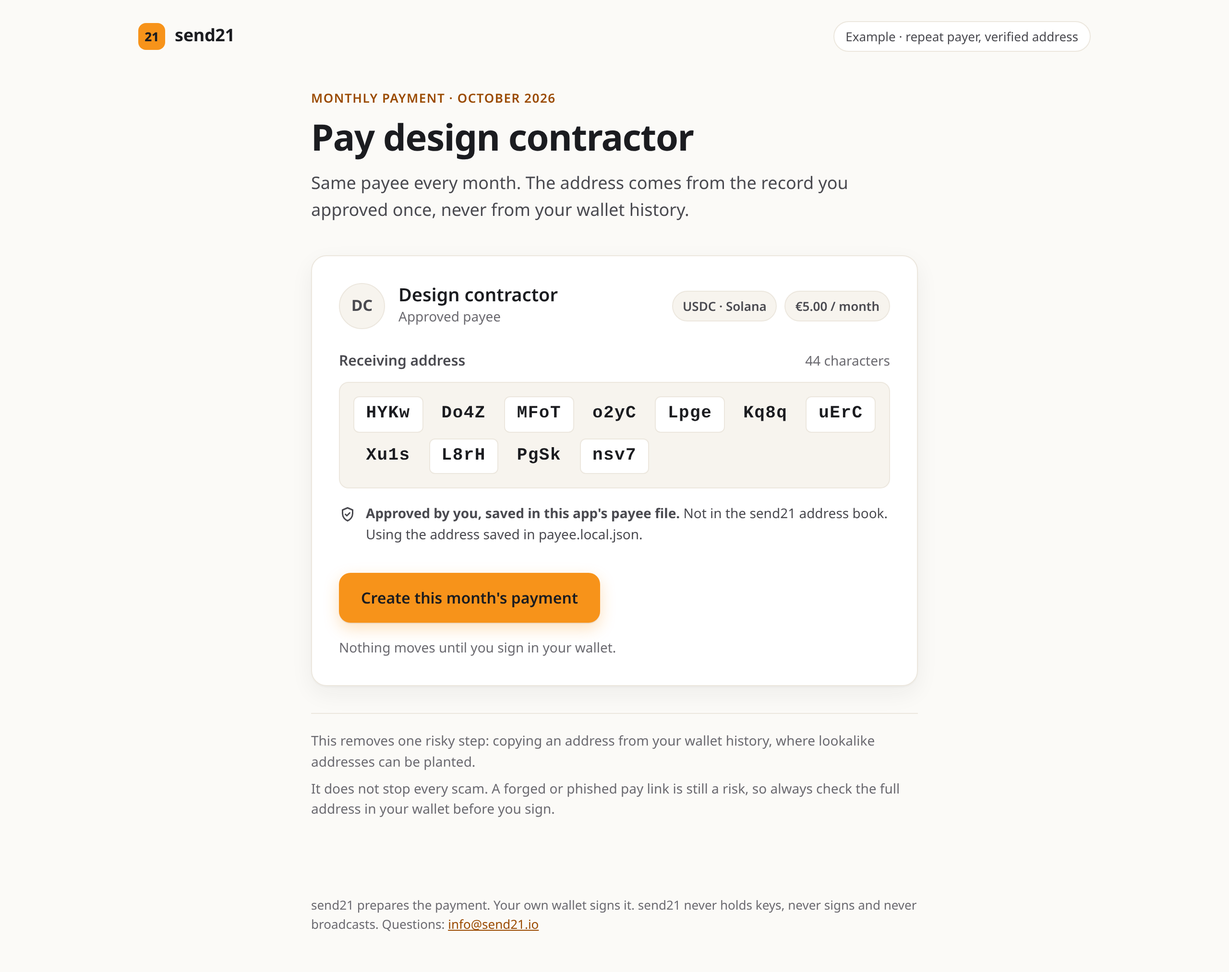
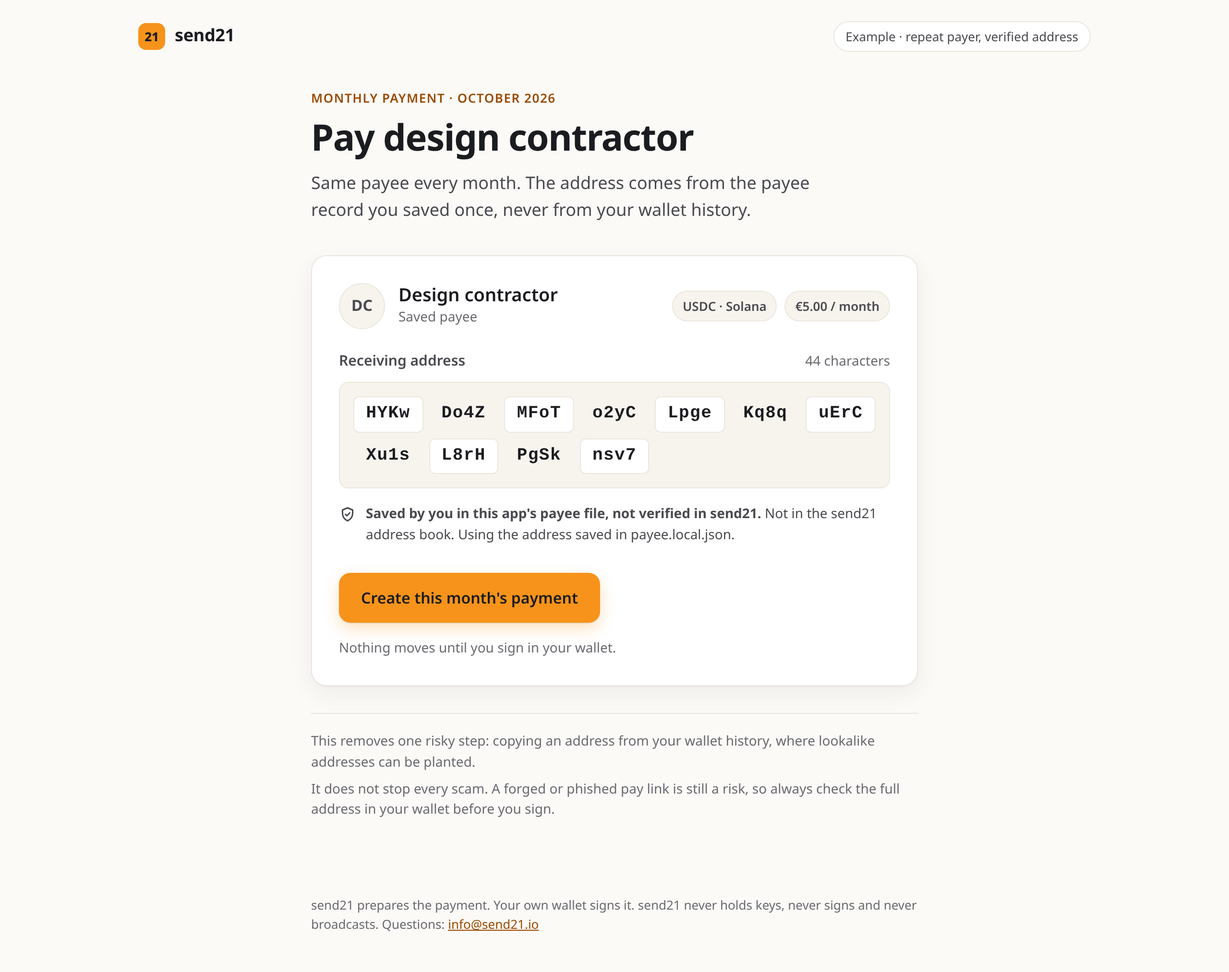
examples: say "approved" only for a verified send21 address book entry
When the payee or helper address comes from the example's own config
file and not from an owner-verified send21 address book entry, the UI
and CLI now say "saved" ("Address matches your saved payee",
"Matches the helper address you saved"). "Approved" / "pre-approved"
wording stays for verified entries. READMEs updated to match.

repeat-payer-verified-address: a fiat price is locked for 15 minutes;
when this month's draft is still within its life but the lock ran out,
re-quote it (POST /drafts/{id}/requote) instead of failing. The UI shows
the price lock time. Test added.

diff --git a/examples/repeat-payer-verified-address/public/app.js b/examples/repeat-payer-verified-address/public/app.js
@@ -24,7 +24,7 @@ function focusHeading() { app.querySelector("h1")?.setAttribute("tabindex", "-1"
 
 function stepper(state) {
   const steps = [
-    ["created", "Draft created", "From your approved payee"],
+    ["created", "Draft created", `From your ${kind()}`],
     ["waiting", "Waiting for your signature", "In your own wallet"],
     ["paid", "Paid", "Confirmed on-chain"],
   ];
@@ -36,6 +36,9 @@ function stepper(state) {
 }
 
 let payee, approval;
+// Honest wording: "approved" only for an owner-verified send21 address book entry.
+const kind = () => (approval?.verified ? "approved payee" : "saved payee");
+const Kind = () => (approval?.verified ? "Approved payee" : "Saved payee");
 
 async function start() {
   try {
@@ -47,7 +50,7 @@ async function start() {
 function sourceLine() {
   return approval.verified
     ? `${ICON.shield}<span><b>Verified in your send21 address book</b> on ${new Date(approval.verifiedAt).toLocaleDateString("en", { dateStyle: "medium" })}. Every payment uses this record.</span>`
-    : `${ICON.shield}<span><b>Approved by you, saved in this app's payee file.</b> ${esc(approval.note)}</span>`;
+    : `${ICON.shield}<span><b>Saved by you in this app's payee file, not verified in send21.</b> ${esc(approval.note)}</span>`;
 }
 
 function renderPayee() {
@@ -56,11 +59,11 @@ function renderPayee() {
     <section class="fade-in">
       <p class="eyebrow">Monthly payment · ${esc(month)}</p>
       <h1>Pay ${esc(payee.label.toLowerCase())}</h1>
-      <p class="lede">Same payee every month. The address comes from the record you approved once, never from your wallet history.</p>
+      <p class="lede">Same payee every month. ${approval.verified ? "The address comes from the payee you approved in your send21 address book" : "The address comes from the payee record you saved once"}, never from your wallet history.</p>
       <article class="card" aria-labelledby="payee-name">
         <div class="card-head">
           <div class="avatar" aria-hidden="true">${esc(initials(payee.label))}</div>
-          <div><div class="who" id="payee-name">${esc(payee.label)}</div><div class="meta">Approved payee</div></div>
+          <div><div class="who" id="payee-name">${esc(payee.label)}</div><div class="meta">${Kind()}</div></div>
           <div class="chips"><span class="chip">${esc(asset(payee))}</span><span class="chip">${esc(money(payee.fiatAmount, payee.fiatCurrency))} / month</span></div>
         </div>
         <div class="addr-label"><h2 style="margin:0">Receiving address</h2><span>${payee.address.length} characters</span></div>
@@ -95,8 +98,8 @@ function renderDraft(r, state, paid) {
   const amountAsset = (d.amountBaseUnits / 1e6).toFixed(2);
   const where = c.checks.map((x) => x.where === "draft.receiverAddress" ? "the draft" : x.where.startsWith("tx-template") ? "the wallet instructions" : "the QR link").join(", ").replace(/, ([^,]*)$/, " and $1");
   const banner = c.allMatch
-    ? `<div class="banner ok" role="status"><span class="icon">${ICON.check}</span><div><strong>Address matches your approved payee</strong><p>All ${payee.address.length} characters match in ${where}.</p></div></div>`
-    : `<div class="banner bad" role="alert"><span class="icon">${ICON.stop}</span><div><strong>Stop. The address does not match your approved payee.</strong><p>Do not pay this draft. Check your payee record first.</p></div></div>`;
+    ? `<div class="banner ok" role="status"><span class="icon">${ICON.check}</span><div><strong>Address matches your ${kind()}</strong><p>All ${payee.address.length} characters match in ${where}.</p></div></div>`
+    : `<div class="banner bad" role="alert"><span class="icon">${ICON.stop}</span><div><strong>Stop. The address does not match your ${kind()}.</strong><p>Do not pay this draft. Check your payee record first.</p></div></div>`;
   const heading = state === "paid" ? "Paid" : "Waiting for your signature";
   const lede = state === "paid"
     ? `${esc(payee.label)} has been paid for this month.`
@@ -120,11 +123,11 @@ function renderDraft(r, state, paid) {
               <p class="fine" style="margin-top:12px">Or scan the QR code with your phone wallet.</p>
             </div>
           </div>`}
-        <div class="addr-label"><h2 style="margin:0">Paying to</h2><span>${c.allMatch ? "Matches approved payee" : "Does not match"}</span></div>
+        <div class="addr-label"><h2 style="margin:0">Paying to</h2><span>${c.allMatch ? `Matches ${kind()}` : "Does not match"}</span></div>
         ${addrGrid(d.receiverAddress, "Receiving address in this draft")}
       </article>
       ${state !== "paid" ? `<div class="note" style="margin-top:20px">${ICON.eye}<div>Your wallet shows the full address before you sign. Compare it with the one above, group by group. If anything differs, stop.</div></div>` : ""}
-      <dl class="rows" style="margin-top:24px"><div class="row"><dt>Draft</dt><dd class="mono">${esc(d.id)}</dd></div><div class="row"><dt>Expires</dt><dd>${esc(new Date(d.expiresAt).toLocaleString("en", { dateStyle: "medium", timeStyle: "short" }))}</dd></div></dl>
+      <dl class="rows" style="margin-top:24px"><div class="row"><dt>Draft</dt><dd class="mono">${esc(d.id)}</dd></div>${d.lockedUntil ? `<div class="row"><dt>Price locked until</dt><dd>${esc(new Date(d.lockedUntil).toLocaleTimeString("en", { timeStyle: "short" }))}</dd></div>` : ""}<div class="row"><dt>Expires</dt><dd>${esc(new Date(d.expiresAt).toLocaleString("en", { dateStyle: "medium", timeStyle: "short" }))}</dd></div></dl>
     </section>`;
   focusHeading();
 }

diff --git a/examples/agent-hires-local-helper/public/app.js b/examples/agent-hires-local-helper/public/app.js
@@ -27,6 +27,8 @@ function stepper(at) {
 }
 
 let v;
+// Honest wording: "pre-approved" only for an owner-verified send21 address book entry.
+const approved = () => Boolean(v?.helper?.approvedInSend21);
 async function start() {
   try { v = await api("/api/task"); render(); if (v.phase === "awaiting_signature") poll(); }
   catch (e) { app.innerHTML = `<h1>Something is not set up yet</h1><p class="error">${esc(e.message)}</p>`; }
@@ -52,9 +54,9 @@ function renderTask() {
           <div class="row"><dt>Helper</dt><dd>${esc(helper.label)}</dd></div>
           <div class="row"><dt>Agreed amount</dt><dd>${esc(money(task.fiatAmount, task.fiatCurrency))} · ${esc(helper.currency.toUpperCase())} on ${esc(helper.network)}</dd></div>
         </dl>
-        <div class="addr-label"><h2 style="margin:0">Helper's receiving address</h2><span>Pre-approved by you</span></div>
-        ${addrGrid(helper.chunks, "Helper's pre-approved receiving address")}
-        <p class="source">${ICON.shield}<span>Saved once from what your helper gave you (${esc(helper.source)}). Your agent cannot change it.</span></p>
+        <div class="addr-label"><h2 style="margin:0">Helper's receiving address</h2><span>${approved() ? "Pre-approved in send21" : "Saved by you"}</span></div>
+        ${addrGrid(helper.chunks, approved() ? "Helper's pre-approved receiving address" : "Helper's saved receiving address")}
+        <p class="source">${ICON.shield}<span>${approved() ? "Approved by you in your send21 address book. Your agent cannot change it." : `Saved once from what your helper gave you (${esc(helper.source)}), not in your send21 address book. Your agent cannot change it.`}</span></p>
         <div class="actions">
           <button class="btn btn-primary" id="done">Task done</button>
           <p class="fine">Your agent drafts the payment. Nothing moves until you sign.</p>
@@ -70,7 +72,7 @@ async function done(ev) {
     <section class="fade-in">
       <p class="eyebrow">Task done</p>
       <h1>Your agent is drafting the payment</h1>
-      <p class="lede">It asks send21 for a pay link to your helper's pre-approved address. It cannot sign or pay.</p>
+      <p class="lede">It asks send21 for a pay link to ${approved() ? "your helper's pre-approved address" : "the helper address you saved"}. It cannot sign or pay.</p>
       <div class="card"><div class="working"><span class="spinner" aria-hidden="true"></span><span>Calling the send21 MCP server…</span></div></div>
     </section>`;
   focusHeading();
@@ -105,7 +107,7 @@ function renderReview() {
       <h1>${isPaid ? "Paid" : "Review and sign"}</h1>
       <p class="lede">${isPaid ? `${esc(helper.label)} has been paid for the task.` : "Your agent drafted this payment. Check it, then open the pay link and sign in your own wallet."}</p>
       ${match
-        ? `<div class="banner ok" role="status"><span class="icon">${ICON.check}</span><div><strong>Pays your helper's pre-approved address</strong><p>All ${helper.address.length} characters match the address you saved.</p></div></div>`
+        ? `<div class="banner ok" role="status"><span class="icon">${ICON.check}</span><div><strong>${approved() ? "Pays your helper's pre-approved address" : "Matches the helper address you saved"}</strong><p>All ${helper.address.length} characters match ${approved() ? "the address you approved in send21" : "the address you saved"}.</p></div></div>`
         : `<div class="banner bad" role="alert"><span class="icon">${ICON.stop}</span><div><strong>Stop. This link does not pay your helper's address.</strong><p>Do not sign. Check the helper record first.</p></div></div>`}
       ${stepper(isPaid ? 3 : 1)}
       <article class="card">
@@ -114,7 +116,7 @@ function renderReview() {
           <div><div class="meta">Pay ${esc(helper.label.toLowerCase())}</div><div class="amount">${esc(money(pr.fiatAmount, pr.fiatCurrency))}<small>in ${esc(pr.option.currency.toUpperCase())} on ${esc(pr.option.network)} · ${esc(task.title)}</small></div></div>
           <div class="chips"><span class="status-chip ${isPaid ? "ok" : ""}">${isPaid ? "Paid" : "Waiting for your signature"}</span></div>
         </div>
-        <div class="addr-label"><h2 style="margin:0">Pays to</h2><span>${match ? "Matches pre-approved address" : "Does not match"}</span></div>
+        <div class="addr-label"><h2 style="margin:0">Pays to</h2><span>${match ? (approved() ? "Matches pre-approved address" : "Matches your saved address") : "Does not match"}</span></div>
         ${addrGrid(chunk(pr.option.address), "Address in this pay link")}
         ${isPaid ? (paid?.txId ? `<dl class="rows" style="margin-top:18px"><div class="row"><dt>Transaction</dt><dd class="mono">${esc(paid.txId)}</dd></div></dl>` : "") : `
         <div class="actions"><a class="btn btn-primary btn-block" href="${esc(review.payUrl)}" target="_blank" rel="noopener">Open pay link to sign in your wallet ${ICON.ext}</a></div>

diff --git a/examples/repeat-payer-verified-address/cli.js b/examples/repeat-payer-verified-address/cli.js
@@ -30,10 +30,12 @@ if (args[0] === "--pause-template") {
 }
 
 const payee = loadPayee(dir);
-line(`\n1) Approved payee (stored once, in ${payee.file.split("/").pop()})`);
+const approval = await resolveApproval(api, payee);
+// "approved" only for an owner-verified send21 address book entry; otherwise "saved".
+const kind = approval.verified ? "approved payee" : "saved payee";
+line(`\n1) ${approval.verified ? "Approved" : "Saved"} payee (stored once, in ${payee.fileName})`);
 line(`   ${payee.label}: ${payee.currency.toUpperCase()} on ${payee.network}, ${payee.fiatAmount} ${payee.fiatCurrency} a month`);
 line(`   address: ${chunk(payee.address).join(" ")}`);
-const approval = await resolveApproval(api, payee);
 line(`   source:  ${approval.source}${approval.verified ? ` (verified ${approval.verifiedAt})` : ""}`);
 line(`   note:    ${approval.note}`);
 
@@ -42,23 +44,24 @@ if (args.includes("--schedule")) {
   line(`\n2) Monthly recurring template (POST /recurring-templates)`);
   line(`   ${t.reused ? "reused existing" : "created"} template ${t.template.id}, interval ${t.template.interval}, next run ${t.template.nextRunAt}, active ${t.template.isActive}`);
   line(`   template receiver: ${chunk(t.template.draft?.receiverAddress ?? "").join(" ")}`);
-  line(`   check: ${ok(t.check.match)} with the approved payee`);
+  line(`   check: ${ok(t.check.match)} with the ${kind}`);
 }
 
 line(`\n${args.includes("--schedule") ? "3" : "2"}) This month's draft (POST /drafts, Idempotency-Key per payee and month)`);
 const r = await createMonthlyDraft(api, payee);
 line(`   Idempotency-Key: ${r.idempotencyKey}`);
 line(`   draft ${r.draft.id}  status ${r.draft.status}  ${r.draft.fiatAmount} ${r.draft.fiatCurrency} = ${(r.draft.amountBaseUnits / 1e6).toFixed(6)} ${r.draft.currency?.toUpperCase()} on ${r.draft.network}`);
-line(`   expires ${r.draft.expiresAt}`);
+if (r.requoted) line(`   price lock had run out: re-quoted (POST /drafts/{id}/requote), same draft`);
+line(`   price locked until ${r.draft.quote?.lockedUntil ?? r.draft.quote?.expiresAt ?? "n/a"}; draft expires ${r.draft.expiresAt}`);
 line(`   paymentUri: ${r.draft.paymentUri}`);
 
 line(`\n   Full address check (exact, every character):`);
-line(`   approved               ${chunk(payee.address).join(" ")}`);
+line(`   ${(approval.verified ? "approved" : "saved").padEnd(22)} ${chunk(payee.address).join(" ")}`);
 for (const c of r.checks.checks) line(`   ${c.where.padEnd(22)} ${chunk(c.value ?? "").join(" ")}   ${ok(c.match)}`);
 line(r.checks.allMatch
-  ? `\n   ✔ Address matches your approved payee (${payee.address.length} of ${payee.address.length} characters).`
-  : `\n   ✖ STOP: an address does not match the approved payee. Do not pay this draft.`);
+  ? `\n   ✔ Address matches your ${kind} (${payee.address.length} of ${payee.address.length} characters).`
+  : `\n   ✖ STOP: an address does not match the ${kind}. Do not pay this draft.`);
 line(`\n   Next: open the paymentUri or scan the QR in your own wallet. Your wallet shows the full address;`);
-line(`   compare it with the approved one before you sign. send21 never signs and never broadcasts.`);
+line(`   compare it with the ${approval.verified ? "approved" : "saved"} one before you sign. send21 never signs and never broadcasts.`);
 const s = await api.get(`/drafts/${r.draft.id}/status`);
 line(`\n   GET /drafts/${s.id}/status -> ${s.status}`);

diff --git a/examples/agent-hires-local-helper/agent-cli.js b/examples/agent-hires-local-helper/agent-cli.js
@@ -1,5 +1,5 @@
 // A simple script standing in for the agent: the task is reported done, so it asks
-// send21 (over MCP) for a pay link to the helper's pre-approved address. Then it asks
+// send21 (over MCP) for a pay link to the helper's saved address. Then it asks
 // again, the way a retried or repeated agent run would, to show the same open link comes back.
 //   npm run agent
 import { fileURLToPath } from "node:url";
@@ -26,7 +26,7 @@ const say = (s = "") => console.log(s);
 say(`MCP server: ${mcp.url}   key: ${redact(process.env.SEND21_API_KEY)}`);
 say(`\nTask: ${cfg.task.title} (${cfg.task.where})`);
 say(`Helper: ${cfg.helper.label}, ${cfg.task.fiatAmount} ${cfg.task.fiatCurrency} in ${cfg.helper.currency.toUpperCase()} on ${cfg.helper.network}`);
-say(`Pre-approved address (${cfg.fileName}): ${chunk(cfg.helper.address).join(" ")}`);
+say(`Saved helper address (${cfg.fileName}): ${chunk(cfg.helper.address).join(" ")}`);
 say(`\n[helper] task reported done -> agent drafts the payment`);
 
 const first = await draftPaymentForDoneTask(mcp, cfg, { idempotencyKey: `${cfg.orderId}-${randomUUID()}` });
@@ -37,7 +37,7 @@ say(`  id:        ${first.paymentRequest.id}`);
 say(`  orderId:   ${first.paymentRequest.orderId}`);
 say(`  amount:    ${first.paymentRequest.fiatAmount} ${first.paymentRequest.fiatCurrency}, payable in ${first.paymentRequest.option.currency.toUpperCase()} on ${first.paymentRequest.option.network}`);
 say(`  pays to:   ${chunk(first.paymentRequest.option.address).join(" ")}`);
-say(`  check:     ${first.addressCheck.match ? "MATCH, the pay link pays the helper's pre-approved address" : "MISMATCH, do not pay"}`);
+say(`  check:     ${first.addressCheck.match ? (first.approvedInSend21 ? "MATCH, the pay link pays the helper's pre-approved address (verified in send21)" : "MATCH, the pay link pays the helper address you saved (not in the send21 address book)") : "MISMATCH, do not pay"}`);
 
 say(`\n[helper] reports done again (a repeated request, new Idempotency-Key)`);
 const again = await draftPaymentForDoneTask(mcp, cfg, { idempotencyKey: `${cfg.orderId}-${randomUUID()}` });

diff --git a/examples/agent-hires-local-helper/server.js b/examples/agent-hires-local-helper/server.js
@@ -25,14 +25,26 @@ const TYPES = { ".html": "text/html; charset=utf-8", ".css": "text/css", ".js": 
 const json = (res, status, body) => { res.writeHead(status, { "Content-Type": "application/json", "Cache-Control": "no-store" }); res.end(JSON.stringify(body)); };
 const readBody = (req) => new Promise((ok, fail) => { const p = []; req.on("data", (c) => p.push(c)); req.on("end", () => ok(Buffer.concat(p))); req.on("error", fail); });
 
+// Is the helper's address an owner-verified entry in the send21 address book?
+// Only then does the UI say "pre-approved". Otherwise it says "the address you saved".
+let helperApproved = null;
+async function lookupHelperApproval() {
+  try {
+    const book = await mcp.callTool("list_address_book");
+    helperApproved = Boolean((book ?? []).find((e) => e.address === cfg.helper.address && e.network === cfg.helper.network)?.verifiedAt);
+  } catch { helperApproved = false; }
+  return helperApproved;
+}
+
 function view() {
-  return { task: cfg.task, helper: { ...cfg.helper, chunks: chunk(cfg.helper.address), source: cfg.fileName }, orderId: cfg.orderId, ...state };
+  const approved = state.review ? Boolean(state.review.approvedInSend21) : Boolean(helperApproved);
+  return { task: cfg.task, helper: { ...cfg.helper, chunks: chunk(cfg.helper.address), source: cfg.fileName, approvedInSend21: approved }, orderId: cfg.orderId, ...state };
 }
 
 const server = http.createServer(async (req, res) => {
   const url = new URL(req.url, "http://localhost");
   try {
-    if (req.method === "GET" && url.pathname === "/api/task") return json(res, 200, view());
+    if (req.method === "GET" && url.pathname === "/api/task") { if (helperApproved === null) await lookupHelperApproval(); return json(res, 200, view()); }
 
     if (req.method === "POST" && url.pathname === "/api/task/done") {
       // The helper reported the task done. The agent drafts the payment.

diff --git a/examples/repeat-payer-verified-address/lib/monthly.js b/examples/repeat-payer-verified-address/lib/monthly.js
@@ -23,12 +23,19 @@ export function draftBody(payee, month) {
 export async function createMonthlyDraft(api, payee, { month = monthKey() } = {}) {
   // Same key for the same payee and month: a double click or a retry returns the same draft.
   const idempotencyKey = `monthly-${payee.id}-${month}`;
-  const draft = await api.post("/drafts", draftBody(payee, month), { idempotencyKey });
+  let draft = await api.post("/drafts", draftBody(payee, month), { idempotencyKey });
+  // A fiat price is locked for 15 minutes (a quote). If this month's draft is still within its
+  // life but the lock ran out, re-quote it (POST /drafts/{id}/requote) instead of making a twin.
+  let requoted = false;
+  if (draft.status === "Expired" && new Date(draft.expiresAt) > new Date()) {
+    draft = await api.post(`/drafts/${draft.id}/requote`);
+    requoted = true;
+  }
   if (draft.status === "Cancelled" || draft.status === "Expired") {
     throw new Error(`This month's draft (${draft.id}) is ${draft.status.toLowerCase()}. Set PAYMENT_MONTH (for example ${nextMonth(month)}) to prepare a new one.`);
   }
   const template = await api.get(`/drafts/${draft.id}/tx-template`);
-  return { idempotencyKey, draft, template, checks: addressChecks(payee.address, draft, template) };
+  return { idempotencyKey, draft, requoted, template, checks: addressChecks(payee.address, draft, template) };
 }
 
 // The address must match exactly in the draft, in the wallet instructions and in the QR link.

diff --git a/examples/repeat-payer-verified-address/test/address.test.js b/examples/repeat-payer-verified-address/test/address.test.js
@@ -35,3 +35,19 @@ test("webhook V2 signature: valid, tampered and stale", () => {
   const old = signV2({ rawBody, deliveryId: "d1", secret: "s", t: Math.floor(Date.now() / 1000) - 600 });
   assert.equal(verifyV2({ rawBody, signatureHeader: old, deliveryId: "d1", secret: "s" }), false);
 });
+
+test("an expired price lock within the draft's life is re-quoted, not duplicated", async () => {
+  const { createMonthlyDraft } = await import("../lib/monthly.js");
+  const future = new Date(Date.now() + 3600e3).toISOString();
+  const calls = [];
+  const base = { id: "d1", receiverAddress: approved, paymentUri: `solana:${approved}?amount=1`, expiresAt: future };
+  const api = {
+    async post(path) { calls.push(path); return path.endsWith("/requote") ? { ...base, status: "AwaitingPayment" } : { ...base, status: "Expired" }; },
+    async get() { return { outputs: [{ address: approved }] }; },
+  };
+  const payee = { id: "p", label: "P", network: "Solana", currency: "Usdc", address: approved, fiatCurrency: "EUR", fiatAmount: 1 };
+  const r = await createMonthlyDraft(api, payee, { month: "2026-10" });
+  assert.deepEqual(calls, ["/drafts", "/drafts/d1/requote"]);
+  assert.equal(r.requoted, true);
+  assert.equal(r.draft.status, "AwaitingPayment");
+});

diff --git a/examples/repeat-payer-verified-address/server.js b/examples/repeat-payer-verified-address/server.js
@@ -48,7 +48,8 @@ const server = http.createServer(async (req, res) => {
       const r = await createMonthlyDraft(api, payee);
       const qr = r.draft.paymentUri ? await QRCode.toString(r.draft.paymentUri, { type: "svg", margin: 1, color: { dark: "#1B1C20", light: "#FFFFFF" } }) : null;
       return json(res, 201, {
-        draft: { id: r.draft.id, status: r.draft.status, network: r.draft.network, currency: r.draft.currency, fiatCurrency: r.draft.fiatCurrency, fiatAmount: r.draft.fiatAmount, amountBaseUnits: r.draft.amountBaseUnits, receiverAddress: r.draft.receiverAddress, paymentUri: r.draft.paymentUri, expiresAt: r.draft.expiresAt, memo: r.draft.memo },
+        draft: { id: r.draft.id, status: r.draft.status, network: r.draft.network, currency: r.draft.currency, fiatCurrency: r.draft.fiatCurrency, fiatAmount: r.draft.fiatAmount, amountBaseUnits: r.draft.amountBaseUnits, receiverAddress: r.draft.receiverAddress, paymentUri: r.draft.paymentUri, expiresAt: r.draft.expiresAt, lockedUntil: r.draft.quote?.lockedUntil ?? r.draft.quote?.expiresAt ?? null, memo: r.draft.memo },
+        requoted: r.requoted,
         checks: r.checks, idempotencyKey: r.idempotencyKey, qr,
       });
     }

diff --git a/examples/repeat-payer-verified-address/public/index.html b/examples/repeat-payer-verified-address/public/index.html
@@ -3,7 +3,7 @@
 <head>
   <meta charset="utf-8">
   <meta name="viewport" content="width=device-width, initial-scale=1">
-  <title>Monthly payment to an approved payee · send21 example</title>
+  <title>Monthly payment to a saved payee · send21 example</title>
   <link rel="stylesheet" href="/styles.css">
 </head>
 <body>

diff --git a/examples/repeat-payer-verified-address/README.md b/examples/repeat-payer-verified-address/README.md
@@ -10,11 +10,11 @@ send21: crypto pay links and API for people and AI agents. send21 prepares the p
 
 ## What you see
 
-| 1. The approved payee | 2. This month's draft, address checked |
+| 1. The payee | 2. This month's draft, address checked |
 |---|---|
-| Full address in groups of four, the asset and network, the monthly amount, and where the approval comes from. One button: **Create this month's payment**. | **Address matches your approved payee**: every character checked in the draft, in the wallet instructions (`tx-template`) and in the QR link. Then a QR code and **Open in your wallet**. The steps read *Draft created → Waiting for your signature → Paid*. |
+| Full address in groups of four, the asset and network, the monthly amount, and where the approval comes from. One button: **Create this month's payment**. | **Address matches your saved payee** (or **your approved payee** when the address is an owner-verified entry in your send21 address book): every character checked in the draft, in the wallet instructions (`tx-template`) and in the QR link. Then a QR code and **Open in your wallet**. The steps read *Draft created → Waiting for your signature → Paid*. |
 
-<p><img src="docs/1-approved-payee-desktop.png" alt="The approved payee with the full address in groups of four" width="49%"> <img src="docs/2-address-match-waiting-for-signature-desktop.png" alt="Address matches your approved payee, waiting for your signature" width="49%"></p>
+<p><img src="docs/1-approved-payee-desktop.png" alt="The saved payee with the full address in groups of four" width="49%"> <img src="docs/2-address-match-waiting-for-signature-desktop.png" alt="Address matches your saved payee, waiting for your signature" width="49%"></p>
 
 ## Where the approved address is stored
 
@@ -23,8 +23,8 @@ send21 has an address book (`GET /api/v1/address-book`, scope `addressbook:read`
 This example:
 
 1. Reads the payee from `payee.json` (label, network, currency, address, monthly amount).
-2. Looks the address up in your send21 address book. If it is there and verified, the UI says **Verified in your send21 address book**.
-3. If it is not there, or the key has no `addressbook:read` scope, it says so plainly and uses `payee.json`, the file you reviewed and saved yourself. That file is a local config, not a send21 approval.
+2. Looks the address up in your send21 address book. If it is there and verified, the UI says **Verified in your send21 address book** and calls it your *approved payee*.
+3. If it is not there, or the key has no `addressbook:read` scope, it says so plainly, uses `payee.json` (the file you reviewed and saved yourself) and calls it your *saved payee*. That file is a local config, not a send21 approval.
 
 Either way, every draft takes the address from that one stored record, never from a paste.
 
@@ -33,6 +33,7 @@ Either way, every draft takes the address from that one stored record, never fro
 - **This month's draft:** `POST /api/v1/drafts` with `receiverAddress` from the payee record, `paymentMethod: "MultiOutput"`, `singleOutput: true` (one QR payment from any wallet), and the price in your currency (`fiatCurrency`, `fiatAmount`). The `Idempotency-Key` is `monthly-<payee id>-<YYYY-MM>`, so a double click or a retry returns the same draft instead of a second one.
 - **Address check:** the example compares the approved address, character for character, with `receiverAddress` in the draft, the output in `GET /api/v1/drafts/{id}/tx-template`, and the address in the `paymentUri` (Solana Pay or EIP-681). No first-4/last-4 shortcut: lookalikes are built to pass that.
 - **Every month on its own (optional):** `npm run monthly -- --schedule` sets up a recurring template with `POST /api/v1/recurring-templates` and `interval: "Monthly"`. send21 then creates the draft each month from the stored address. The payer still signs each one.
+- **Price lock:** a fiat price is locked for 15 minutes. If this month's draft is still within its life but the lock ran out, the example re-quotes it (`POST /api/v1/drafts/{id}/requote`) instead of creating a second draft.
 - **Status:** the UI polls `GET /api/v1/drafts/{id}/status`. With a webhook endpoint, a signed `draft.confirmed` (checked with `X-Send21-Signature-V2`) marks it paid.
 
 Supported here: USDC on Solana, Ethereum, Base, Arbitrum or Polygon; USDT on Solana or Ethereum; EURC on Solana, Ethereum or Base. USDT is not on Base.
@@ -75,7 +76,7 @@ Set `LOCAL_TEST_WEBHOOK_SECRET` in `.env`, start the server, create the draft, t
 
 | File | What it is |
 |---|---|
-| `payee.json` | The one approved payee record |
+| `payee.json` | The one payee record |
 | `lib/payee.js` | Loads the payee and checks the send21 address book |
 | `lib/monthly.js` | Creates this month's draft, the full-address checks, the recurring template |
 | `lib/webhook.js` | `X-Send21-Signature-V2` check |

diff --git a/examples/agent-hires-local-helper/README.md b/examples/agent-hires-local-helper/README.md
@@ -1,6 +1,6 @@
 # Agent hires a local helper
 
-You run your own agent. It asks a local helper you already know and trust for a small physical task, for example a photo check of a delivery. When the task is reported done, the agent asks [send21](https://send21.io/) for a pay link to the helper's pre-approved receiving address. You review it and sign in your own wallet.
+You run your own agent. It asks a local helper you already know and trust for a small physical task, for example a photo check of a delivery. When the task is reported done, the agent asks [send21](https://send21.io/) for a pay link to the helper's saved receiving address. You review it and sign in your own wallet.
 
 **send21 drafts the payment and a human signs it, nothing more.** There is no escrow, no dispute handling and no check of the work itself. This is a self-built setup for paying your own trusted helpers; it does not find helpers for you.
 
@@ -10,7 +10,7 @@ send21: crypto pay links and API for people and AI agents. The agent's key can c
 
 | 1. Task card | 2. Owner review | 3. Paid |
 |---|---|---|
-| The task, where, the agreed amount, and the helper's receiving address in groups of four. One button: **Task done**. | **Pays your helper's pre-approved address**, the amount, the full address, what the agent did, and one button: **Open pay link to sign in your wallet**. | After the signed `draft.confirmed` webhook (or the pay link turning `Completed`). |
+| The task, where, the agreed amount, and the helper's receiving address in groups of four. One button: **Task done**. | **Matches the helper address you saved** (or **Pays your helper's pre-approved address** when it is an owner-verified entry in your send21 address book), the amount, the full address, what the agent did, and one button: **Open pay link to sign in your wallet**. | After the signed `draft.confirmed` webhook (or the pay link turning `Completed`). |
 
 The steps read *Draft created → Waiting for your signature → Paid*.
 
